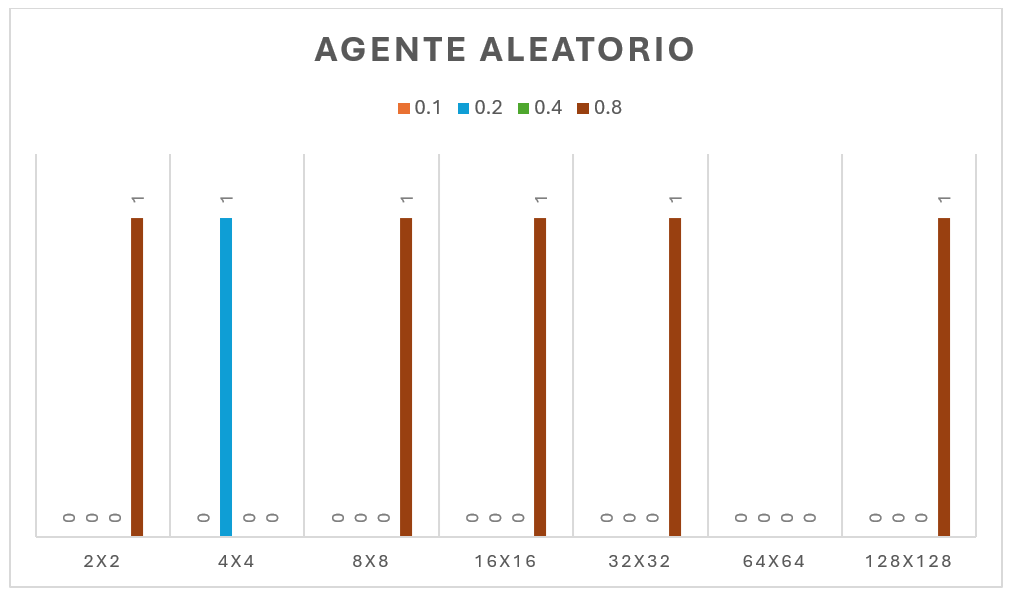
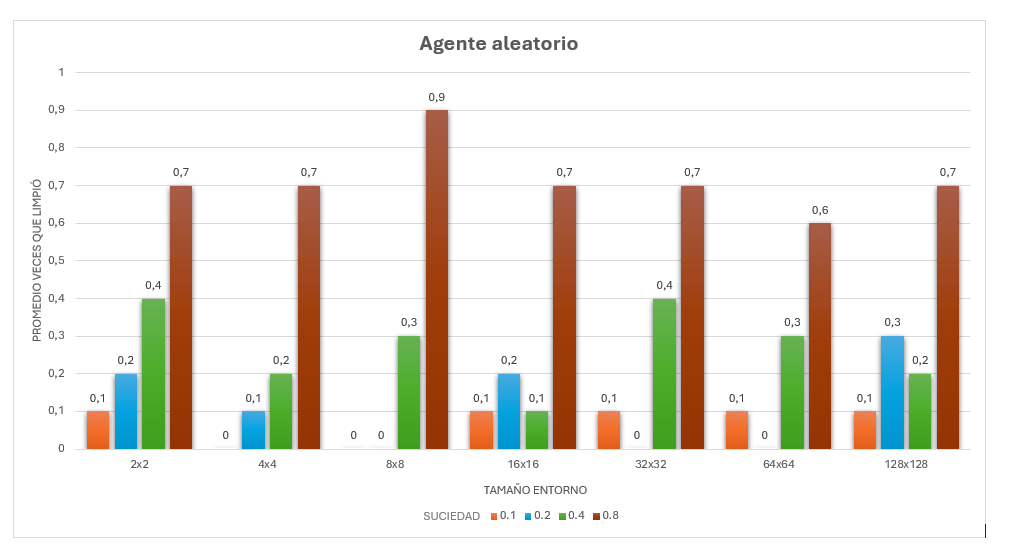
imagenes y codigo final

diff --git a/tp2-agentes-racionales/code/main.py b/tp2-agentes-racionales/code/main.py
@@ -1,0 +1,53 @@
+import random
+import Ejercicio3
+import Ejercicio2 as ej2
+import copy
+
+entorno = [2, 4, 8, 16, 32, 64, 128]
+suciedad = [0.1, 0.2, 0.4, 0.8]
+
+for i in range (0, len(entorno)):
+
+    sizeY = entorno[i]
+    sizeX = entorno[i]
+    init_posX = random.randint(0, sizeX-1)
+    init_posY = random.randint(0, sizeY-1)
+    print("ENTORNO: ",  entorno[i], " x ", entorno[i])
+    listaR = []
+    listaA = []
+    for j in range (0, len(suciedad)):
+        
+        rendimientoA = 0
+        dirt_rate = suciedad[j]
+        sumaR = 0
+        promedioR = 0
+        sumaA = 0
+        promedioA = 0
+        
+        for k in range (0, 9):
+            
+            environment = Ejercicio3.Environment(sizeX, sizeY, init_posX, init_posY,dirt_rate)
+            agent = Ejercicio3.Agent(environment)
+            matrizA = copy.deepcopy(environment.matrix)
+
+            if k == 0 and sizeX == 4 and dirt_rate == 0.4:
+                print(environment.matrix)
+            
+            for l in range (0,999):
+                agent.think()
+
+                accion = random.randint(1,5)
+                rendimientoA += ej2.aceptar_accion(accion, rendimientoA, sizeX, sizeY, init_posX, init_posY, dirt_rate, matrizA)   
+            
+                
+            sumaR += environment.get_performance()  
+            
+        promedioR = sumaR / 10
+        listaR.append(promedioR)
+        promedioA = rendimientoA / 10
+        listaA.append(promedioA)
+
+    print("aleatorio:")
+    print(listaA)
+    print("reflexivo:")
+    print(listaR)

diff --git a/tp2-agentes-racionales/code/Ejercicio2.py b/tp2-agentes-racionales/code/Ejercicio2.py
@@ -30,31 +30,3 @@ def aceptar_accion(accion, rendimiento, sizeX, sizeY, init_posX, init_posY, dirt
     return 0
 
 
-entorno = [2, 4, 8, 16, 32, 64, 128]
-suciedad = [0.1, 0.2, 0.4, 0.8]
-
-for i in range (0, len(entorno)):
-
-    environment = [[round(random.random(), 2) for _ in range(entorno[i])] for _ in range(entorno[i])]
-    sizeY = entorno[i]
-    sizeX = entorno[i]
-    init_posX = random.randint(0, sizeX-1)
-    init_posY = random.randint(0, sizeY-1)
-
-    for j in range (0, len(suciedad)):
-
-        rendimiento = 0
-        dirt_rate = suciedad[j]
-        print("ENTORNO: ",  entorno[i], " x ", entorno[i])
-        print("DIRT_RATE: ", suciedad[j])
-        performance = 0
-
-        for k in range (0, 999):
-
-            accion = random.randint(1,5)
-            rendimiento += aceptar_accion(accion, rendimiento, sizeX, sizeY, init_posX, init_posY, dirt_rate, environment)    
-        print("Medida de desempeño para matriz de dimensión ", entorno[i], " x ", entorno[i], ", con dirt_rate = ", suciedad[j],  ":", rendimiento)
-
-
-
-
